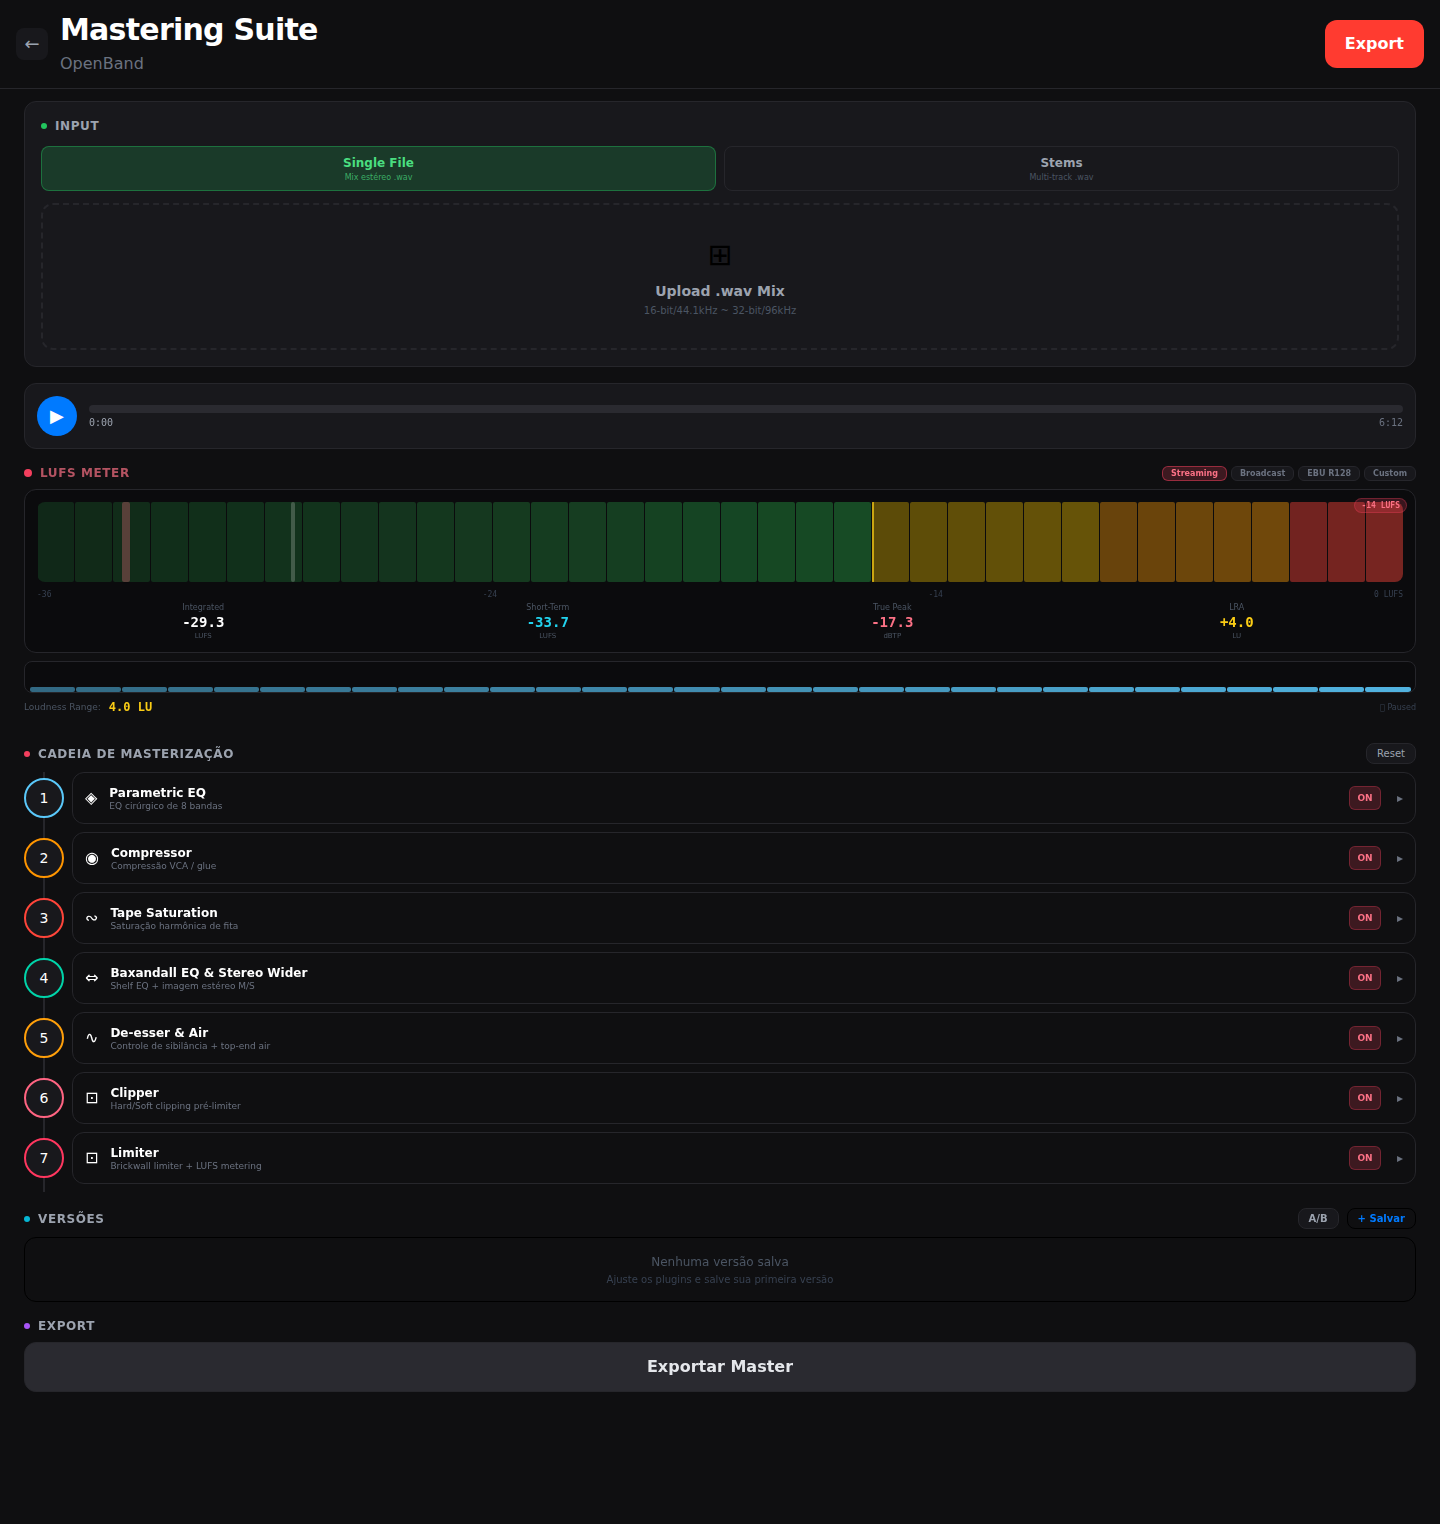
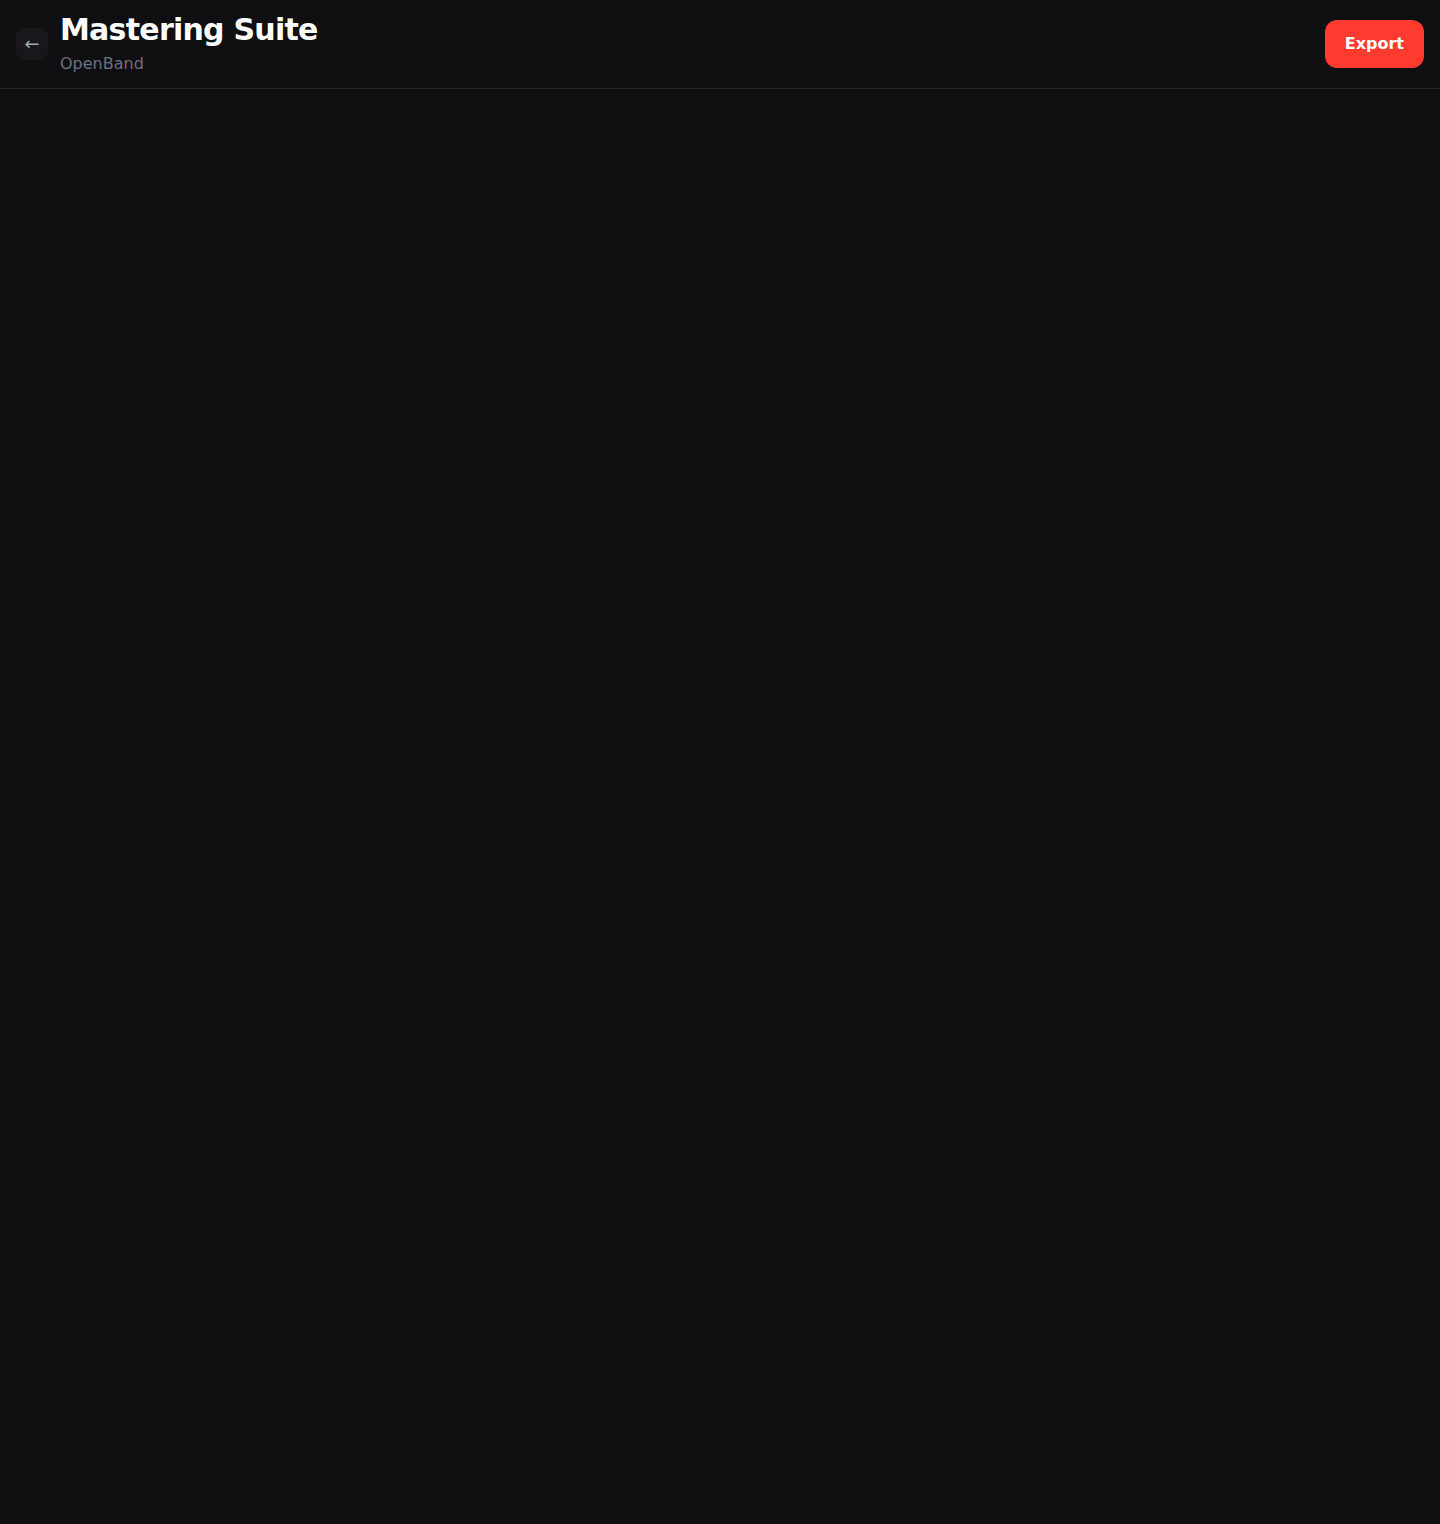
feat: add /tabs/feed route, update menus from /tabs to /tabs/feed
- app/tabs/feed.tsx — route alias for /tabs/feed
- Sidebar Feed key: 'index'→'feed' so onNavigate sends '/tabs/feed'
- _layout.tsx routeNameMap: add 'feed→Feed', handleNavigate routes 'index'→'/tabs/feed'
- MiniPlayer: open project goes to /tabs/feed instead of /tabs
- scripts/screenshots.mjs: getContentHeight accounts for hidden scroll overflow
- Sidebar tests: currentRoute 'index'→'feed'
- Regenerate all marketing screenshots

diff --git a/tests/components.test.tsx b/tests/components.test.tsx
@@ -1064,7 +1064,7 @@ describe("Sidebar", () => {
   it("renders nav items", () => {
     render(
       <Sidebar
-        currentRoute="index"
+        currentRoute="feed"
         onNavigate={() => {}}
         isOpen={true}
         onClose={() => {}}
@@ -1092,7 +1092,7 @@ describe("Sidebar", () => {
     const fn = vi.fn();
     render(
       <Sidebar
-        currentRoute="index"
+        currentRoute="feed"
         onNavigate={fn}
         isOpen={true}
         onClose={() => {}}
@@ -1106,7 +1106,7 @@ describe("Sidebar", () => {
   it("renders nothing when not open and not persistent", () => {
     const { container } = render(
       <Sidebar
-        currentRoute="index"
+        currentRoute="feed"
         onNavigate={() => {}}
         isOpen={false}
         onClose={() => {}}
@@ -1153,7 +1153,7 @@ describe("Sidebar", () => {
     const fn = vi.fn();
     render(
       <Sidebar
-        currentRoute="index"
+        currentRoute="feed"
         onNavigate={fn}
         isOpen={true}
         onClose={() => {}}

diff --git a/app/tabs/_layout.tsx b/app/tabs/_layout.tsx
@@ -42,6 +42,7 @@ export default function TabLayout() {
   const currentSegment = lastSegment === "tabs" ? "index" : lastSegment
   const routeNameMap: Record<string, string> = {
     index: "Feed",
+    feed: "Feed",
     moments: "Momentos",
     library: "Biblioteca",
     account: "Conta",
@@ -62,7 +63,7 @@ export default function TabLayout() {
       return;
     }
     // "index" maps to /tabs (canonical URL), not /tabs/index
-    const target = route === "index" ? "/tabs" : `/tabs/${route}`;
+    const target = route === "index" ? "/tabs/feed" : `/tabs/${route}`;
     router.replace(target as Href);
     setDrawerOpen(false);
   }, [currentSegment, router]);

diff --git a/app/tabs/feed.tsx b/app/tabs/feed.tsx
@@ -1,0 +1,2 @@
+import Feed from "./index";
+export default Feed;

diff --git a/src/components/MiniPlayer.tsx b/src/components/MiniPlayer.tsx
@@ -161,7 +161,7 @@ export function MiniPlayer() {
 
   const openProject = useCallback(() => {
     if (state.projectId) router.push(`/studio/${state.projectId}`);
-    else router.push("/tabs");
+    else router.push("/tabs/feed");
   }, [state.projectId]);
 
   if (!state.visible || !state.url) return null;

diff --git a/src/components/Sidebar.tsx b/src/components/Sidebar.tsx
@@ -2,7 +2,7 @@ import { useState } from "react";
 import { View, Text, Pressable, ScrollView, Image } from "react-native";
 
 const NAV_ITEMS = [
-  { key: "index", label: "Feed", icon: "♫" },
+  { key: "feed", label: "Feed", icon: "♫" },
   { key: "moments", label: "Momentos", icon: "♡" },
   { key: "library", label: "Biblioteca", icon: "☰" },
   {